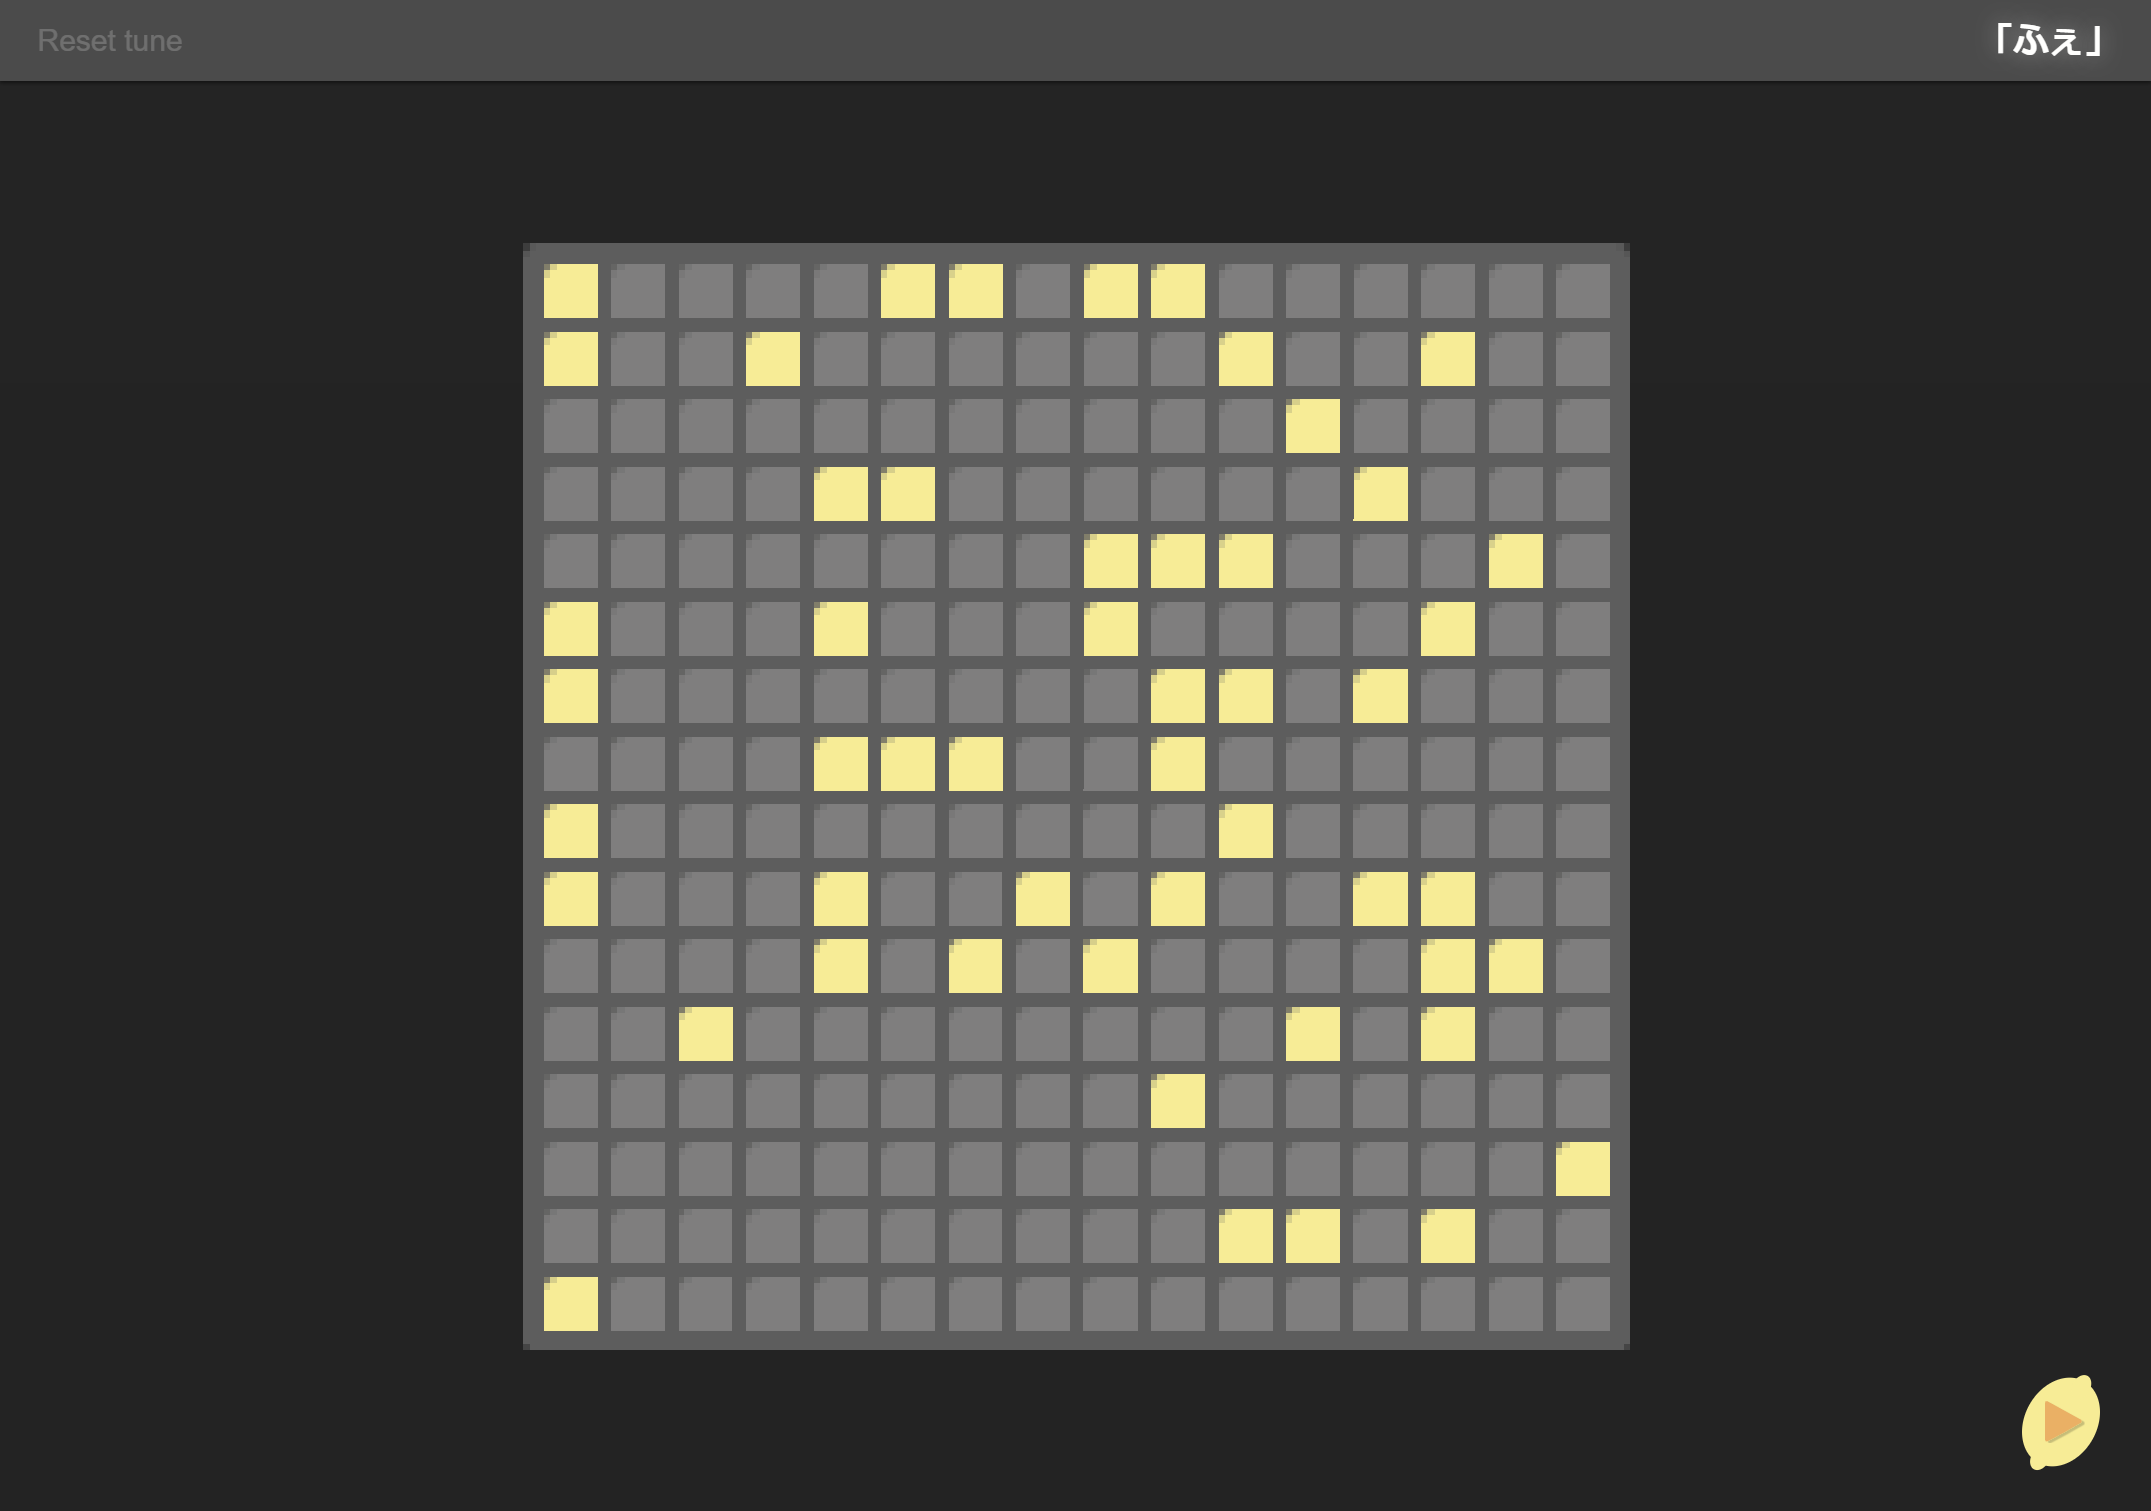
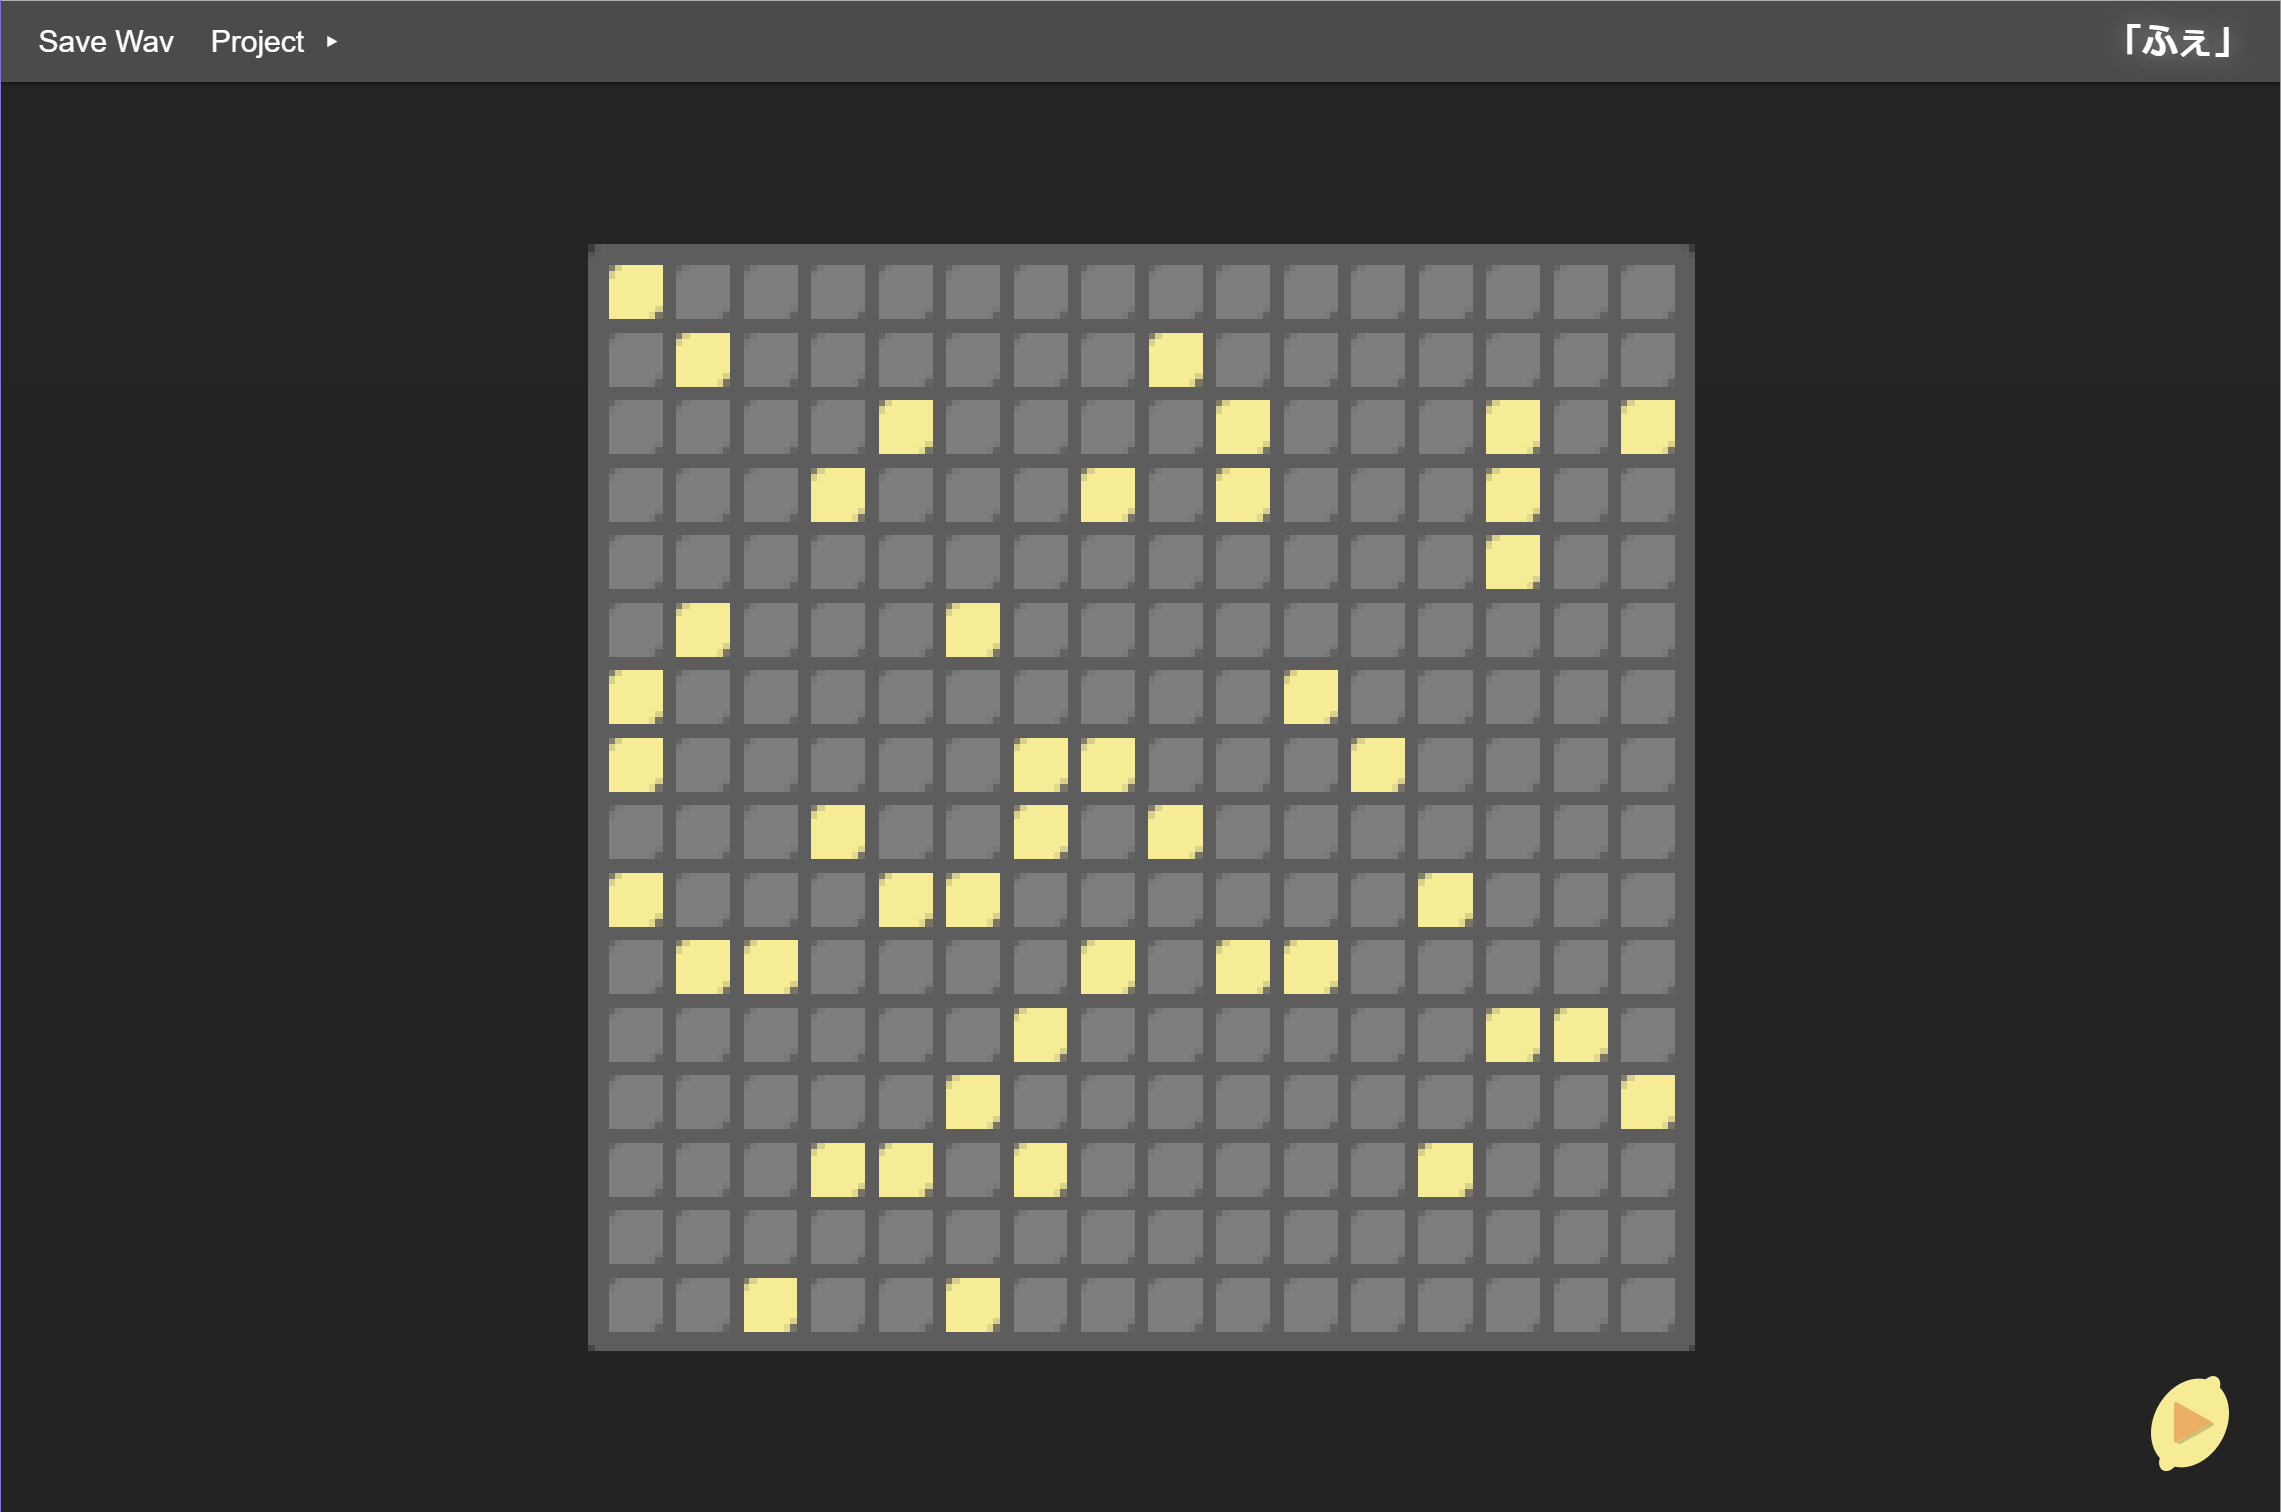
Add controls

diff --git a/src/app/pages/control/control.component.html b/src/app/pages/control/control.component.html
@@ -1,15 +1,15 @@
 <div class="menu-bar">
     <nav class="pure-menu" [ngClass]="{'pure-menu-active': menuOperable}">
         <ul class="pure-menu-list">
-            <li class="pure-menu-item"><button href="#" class="pure-menu-button" (click)="menuOperable && Emit('ResetTune')">Reset tune</button></li>
-            <!-- <li class="pure-menu-item pure-menu-has-children pure-menu-allow-hover">
-                <button href="#" id="menuLink1" class="pure-menu-button">File</button>
+            <li class="pure-menu-item"><button href="#" class="pure-menu-button" (click)="menuOperable && Emit('SaveTune')">Save Wav</button></li>
+            <li class="pure-menu-item pure-menu-has-children pure-menu-allow-hover">
+                <button href="#" id="menuLink1" class="pure-menu-button">Project</button>
                 <ul class="pure-menu-list">
-                    <li class="pure-menu-item"><button href="#" class="pure-menu-button" (click)="Emit('SaveContour')">Save contour</button></li>
-                    <li class="pure-menu-item"><button href="#" class="pure-menu-button" (click)="Emit('SaveMask')">Save mask</button></li>
+                    <li class="pure-menu-item"><button href="#" class="pure-menu-button" (click)="Emit('SaveProject')">Save</button></li>
+                    <li class="pure-menu-item"><button href="#" class="pure-menu-button" (click)="Emit('LoadProject')">Load</button></li>
                 </ul>
             </li>
-            <li class="pure-menu-item pure-menu-has-children pure-menu-allow-hover">
+            <!-- <li class="pure-menu-item pure-menu-has-children pure-menu-allow-hover">
                 <button href="#" id="menuLink2" class="pure-menu-button">Display</button>
                 <ul class="pure-menu-list">
                     <li class="pure-menu-item"><button href="#" class="pure-menu-button" (click)="Emit('DisplayImage')">Image only</button></li>

diff --git a/src/app/pages/drawing/drawing.component.ts b/src/app/pages/drawing/drawing.component.ts
@@ -108,9 +108,9 @@ export class FueDrawingComponent implements OnInit {
 				// TODO: Create model
 				// TOOD: Bind events
 				if(Math.random() < 0.8)
-					cell.graphics.f('#888888').drawRoundRectComplex(0, 0, cellSize, cellSize, cellRadius, 0, 0, 0);
+					cell.graphics.f('#888888').drawRoundRectComplex(0, 0, cellSize, cellSize, cellRadius, 0, cellRadius, 0);
 				else
-					cell.graphics.f('#FBEF98').drawRoundRectComplex(0, 0, cellSize, cellSize, cellRadius, 0, 0, 0);
+					cell.graphics.f('#FBEF98').drawRoundRectComplex(0, 0, cellSize, cellSize, cellRadius, 0, cellRadius, 0);
 				cell.x = padding + (cellSize + spacing) * u;
 				cell.y = padding + (cellSize + spacing) * v;
 				c.addChild(cell);

diff --git a/src/app/pages/control/control.component.ts b/src/app/pages/control/control.component.ts
@@ -12,7 +12,7 @@ export class FueControlComponent implements OnInit {
 	@Output()
 	public onMenuFunction = new EventEmitter<object>();
 
-	public menuOperable: boolean = false;
+	public menuOperable: boolean = true;
 	
 	constructor() { }
 
